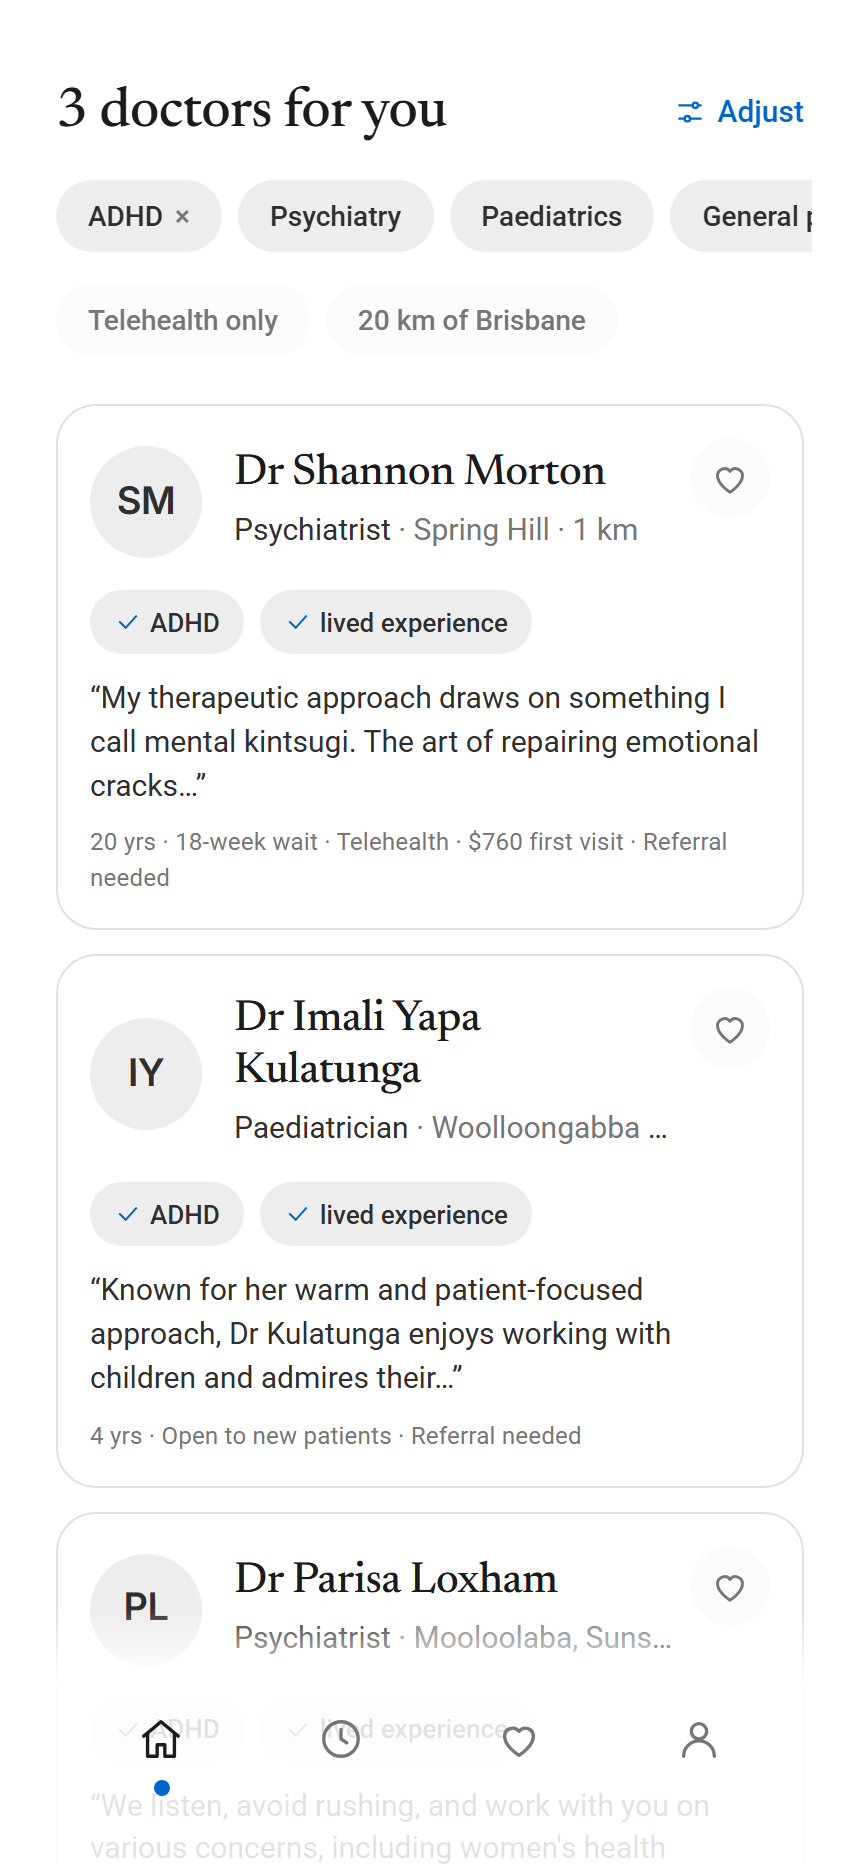
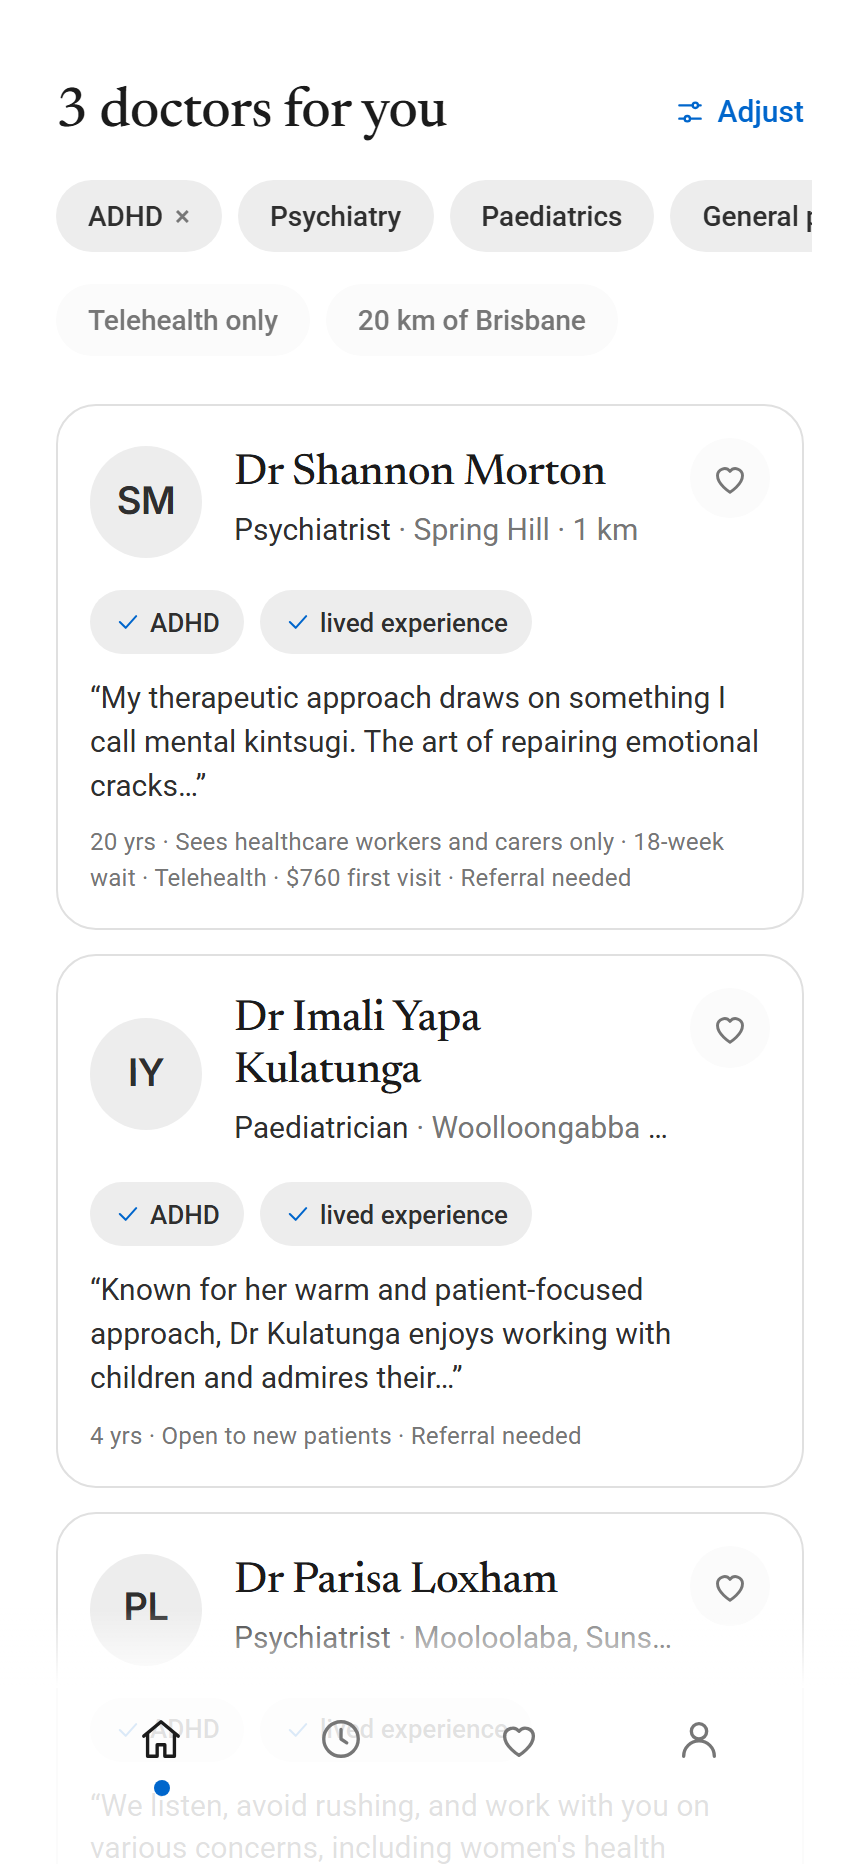
data: scope note ('Sees healthcare workers and carers only') on cards and profiles; fix regex bytes

Changed region(s): [[0.1209, 0.4356, 0.8465, 0.4979]]

diff --git a/src/data/published.ts b/src/data/published.ts
@@ -166,7 +166,7 @@ function applyFacts(record: DoctorRecord, d: ResearchedDoctor, src: SourceRef, d
     record.declared.capacity = true;
   }
   if (d.focus_tags?.length) record.focusTags = found(Array.from(new Set([...record.focusTags.value, ...d.focus_tags])), src);
-  const scope = (d.focus_tags ?? []).find((t) => /only/i.test(t) && !/^not /i.test(t));
+  const scope = (d.focus_tags ?? []).find((t) => / only$/i.test(t.trim()) && !/^not /i.test(t));
   if (scope) record.scopeNote = `Sees ${scope.replace(/\s+only$/i, "")} only`;
   const mannerIds = new Set(discipline.manner.map((m) => m.id));
   const manner = (d.personal?.communication ?? []).filter((id) => mannerIds.has(id));
